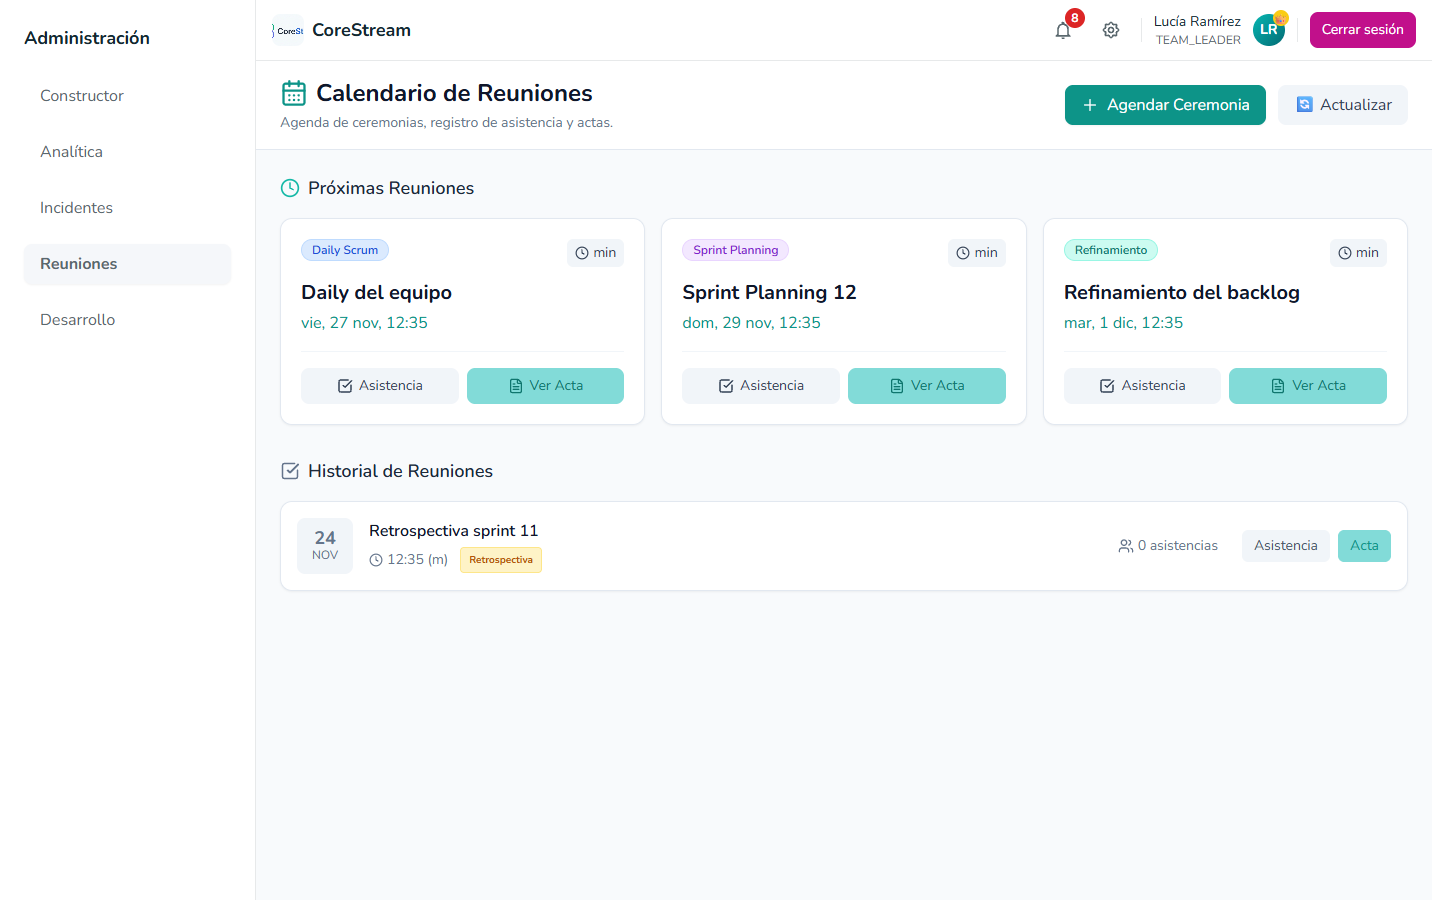
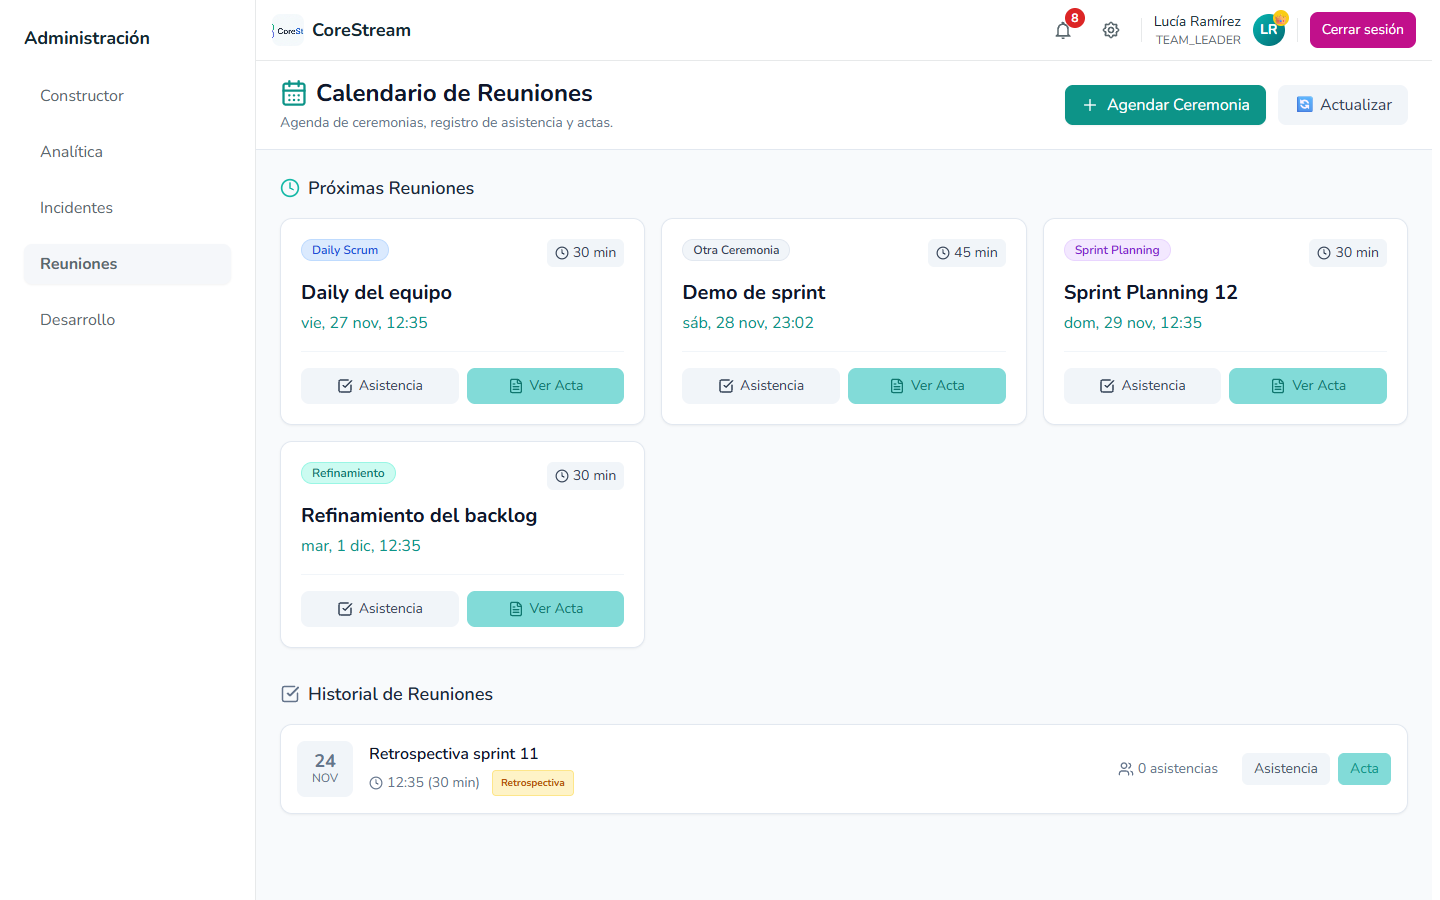
Respetar el rol al crear usuarios y agregar duración a las reuniones

diff --git a/frontend/src/components/dev/CreateMeetingModal.vue b/frontend/src/components/dev/CreateMeetingModal.vue
@@ -16,13 +16,15 @@ const isSubmitting = ref(false)
 const form = reactive({
   title: '',
   meetingType: 'OTHER',
-  scheduledAt: ''
+  scheduledAt: '',
+  durationMinutes: 30
 })
 
 const resetForm = () => {
   form.title = ''
   form.meetingType = 'OTHER'
   form.scheduledAt = ''
+  form.durationMinutes = 30
 }
 
 const handleClose = () => {
@@ -45,7 +47,8 @@ const handleSubmit = async () => {
     const dataToSubmit = {
       title: form.title.trim(),
       meeting_type: form.meetingType,
-      scheduled_at: new Date(form.scheduledAt).toISOString()
+      scheduled_at: new Date(form.scheduledAt).toISOString(),
+      duration_minutes: form.durationMinutes
     }
     await api.meetings.create(dataToSubmit)
     emit('created')
@@ -118,6 +121,20 @@ const handleSubmit = async () => {
             type="datetime-local" 
             class="w-full px-4 py-2 bg-slate-50 dark:bg-[var(--bg-card)] border border-slate-200 dark:border-[var(--border-subtle)] rounded-xl text-slate-900 dark:text-white focus:outline-none focus:ring-2 focus:ring-teal-500/20 focus:border-teal-500 transition-all"
             required
+          >
+        </div>
+
+        <div>
+          <label class="block text-sm font-medium text-slate-700 dark:text-slate-300 mb-1.5">
+            Duración (minutos)
+          </label>
+          <input
+            v-model.number="form.durationMinutes"
+            type="number"
+            min="5"
+            max="480"
+            step="5"
+            class="w-full px-4 py-2 bg-slate-50 dark:bg-[var(--bg-card)] border border-slate-200 dark:border-[var(--border-subtle)] rounded-xl text-slate-900 dark:text-white focus:outline-none focus:ring-2 focus:ring-teal-500/20 focus:border-teal-500 transition-all"
           >
         </div>
       </div>

diff --git a/frontend/src/views/admin/MeetingsView.vue b/frontend/src/views/admin/MeetingsView.vue
@@ -200,7 +200,7 @@ onMounted(() => {
                   <div>
                     <h4 class="font-semibold text-slate-900 dark:text-white">{{ meeting.title }}</h4>
                     <div class="flex items-center gap-3 text-sm text-slate-500 dark:text-[var(--text-muted)] mt-1">
-                      <span class="flex items-center gap-1"><Clock :size="14"/> {{ new Date(meeting.scheduledAt).toLocaleString('es', { hour: '2-digit', minute: '2-digit' }) }} ({{ meeting.durationMinutes }}m)</span>
+                      <span class="flex items-center gap-1"><Clock :size="14"/> {{ new Date(meeting.scheduledAt).toLocaleString('es', { hour: '2-digit', minute: '2-digit' }) }} ({{ meeting.durationMinutes }} min)</span>
                       <span class="inline-flex items-center px-2 py-0.5 rounded text-[10px] font-bold border" :class="getMeetingTypeColor(meeting.meetingType)">
                         {{ getMeetingTypeLabel(meeting.meetingType) }}
                       </span>

diff --git a/backend/app/routers/users.py b/backend/app/routers/users.py
@@ -94,14 +94,15 @@ async def create_user(
             detail="El email ya existe"
         )
 
-    dev_role_result = await db.execute(
-        select(Role).where(Role.name == UserRole.DEVELOPER.value)
+    # Antes se asignaba siempre DEVELOPER e ignoraba el rol pedido.
+    role_result = await db.execute(
+        select(Role).where(Role.name == user_data.role)
     )
-    dev_role = dev_role_result.scalar_one_or_none()
-    if not dev_role:
+    new_role = role_result.scalar_one_or_none()
+    if not new_role:
         raise HTTPException(
             status_code=status.HTTP_500_INTERNAL_SERVER_ERROR,
-            detail="Rol DEVELOPER no encontrado en el sistema"
+            detail=f"Rol {user_data.role} no encontrado en el sistema"
         )
 
     new_user = User(
@@ -114,7 +115,7 @@ async def create_user(
         # liso y un usuario creado así nunca podría iniciar sesión — bug
         # preexistente en este endpoint, detectado al escribir create_admin.py.
         hashed_password=AuthService.hash_password(user_data.password),
-        role_id=dev_role.id,
+        role_id=new_role.id,
         client_id=current_user.client_id,
     )
 

diff --git a/backend/app/models/meeting.py b/backend/app/models/meeting.py
@@ -5,7 +5,7 @@ from enum import Enum
 from typing import TYPE_CHECKING
 from uuid import UUID as PyUUID
 
-from sqlalchemy import DateTime, ForeignKey, String, Text
+from sqlalchemy import DateTime, ForeignKey, Integer, String, Text
 from sqlalchemy import Enum as SQLEnum
 from sqlalchemy.dialects.postgresql import UUID
 from sqlalchemy.orm import Mapped, mapped_column, relationship
@@ -40,6 +40,7 @@ class Meeting(Base, BaseEntity, TenantMixin):
         index=True,
     )
     scheduled_at: Mapped[datetime] = mapped_column(DateTime(timezone=True), nullable=False)
+    duration_minutes: Mapped[int] = mapped_column(Integer, nullable=False, default=30, server_default="30")
     summary_markdown: Mapped[str | None] = mapped_column(Text, nullable=True)
 
     application_id: Mapped[PyUUID | None] = mapped_column(

diff --git a/backend/app/schemas/meeting.py b/backend/app/schemas/meeting.py
@@ -28,6 +28,7 @@ class MeetingBase(BaseModel):
     title: str = Field(..., min_length=1, max_length=255)
     meeting_type: MeetingType = Field(default=MeetingType.OTHER)
     scheduled_at: datetime
+    duration_minutes: int = Field(default=30, ge=5, le=480)
     summary_markdown: Optional[str] = Field(None, max_length=50_000)
     application_id: Optional[UUID] = None
 
@@ -38,6 +39,7 @@ class MeetingUpdate(BaseModel):
     title: Optional[str] = Field(None, min_length=1, max_length=255)
     meeting_type: Optional[MeetingType] = None
     scheduled_at: Optional[datetime] = None
+    duration_minutes: Optional[int] = Field(None, ge=5, le=480)
     summary_markdown: Optional[str] = Field(None, max_length=50_000)
     application_id: Optional[UUID] = None
 

diff --git a/backend/app/schemas/user.py b/backend/app/schemas/user.py
@@ -37,6 +37,17 @@ class UserCreate(UserBase):
     password: str = Field(..., max_length=128)
     role: Optional[str] = "DEVELOPER"
 
+    @field_validator("role")
+    @classmethod
+    def validate_role(cls, v: Optional[str]) -> str:
+        # ADMIN queda fuera a propósito: el primer administrador se crea con
+        # app.scripts.create_admin y los demás se promueven desde Equipo.
+        valid = {UserRole.DEVELOPER.value, UserRole.TEAM_LEADER.value}
+        role = v or UserRole.DEVELOPER.value
+        if role not in valid:
+            raise ValueError(f"Rol inválido. Roles válidos: {', '.join(sorted(valid))}")
+        return role
+
     @field_validator("password")
     @classmethod
     def validate_password_length(cls, v: str) -> str:

diff --git a/backend/alembic/versions/a6b7c8d9e0f1_add_meeting_duration.py b/backend/alembic/versions/a6b7c8d9e0f1_add_meeting_duration.py
@@ -1,0 +1,20 @@
+"""Agrega la duración en minutos a las reuniones."""
+import sqlalchemy as sa
+
+from alembic import op
+
+revision = "a6b7c8d9e0f1"
+down_revision = "f5b6c7d8e9a0"
+branch_labels = None
+depends_on = None
+
+
+def upgrade():
+    op.add_column(
+        "meetings",
+        sa.Column("duration_minutes", sa.Integer(), nullable=False, server_default="30"),
+    )
+
+
+def downgrade():
+    op.drop_column("meetings", "duration_minutes")

diff --git a/docs/manual/MANUAL_USUARIO.md b/docs/manual/MANUAL_USUARIO.md
@@ -219,7 +219,7 @@ Las P1 y P2 abiertas aparecen en **Atención**. Todos los cambios quedan en **Hi
 
 ### Reuniones
 
-En **Reuniones**, pulsa **Agendar Ceremonia** e indica título, tipo, fecha y hora. Registra después la asistencia (Presente, Ausente o Justificado) y el acta, que admite Markdown.
+En **Reuniones**, pulsa **Agendar Ceremonia** e indica título, tipo, fecha, hora y duración en minutos (30 por defecto). Registra después la asistencia (Presente, Ausente o Justificado) y el acta, que admite Markdown.
 
 Los tipos disponibles son Daily Scrum, Sprint Planning, Retrospectiva, Refinamiento y Otra Ceremonia.
 
